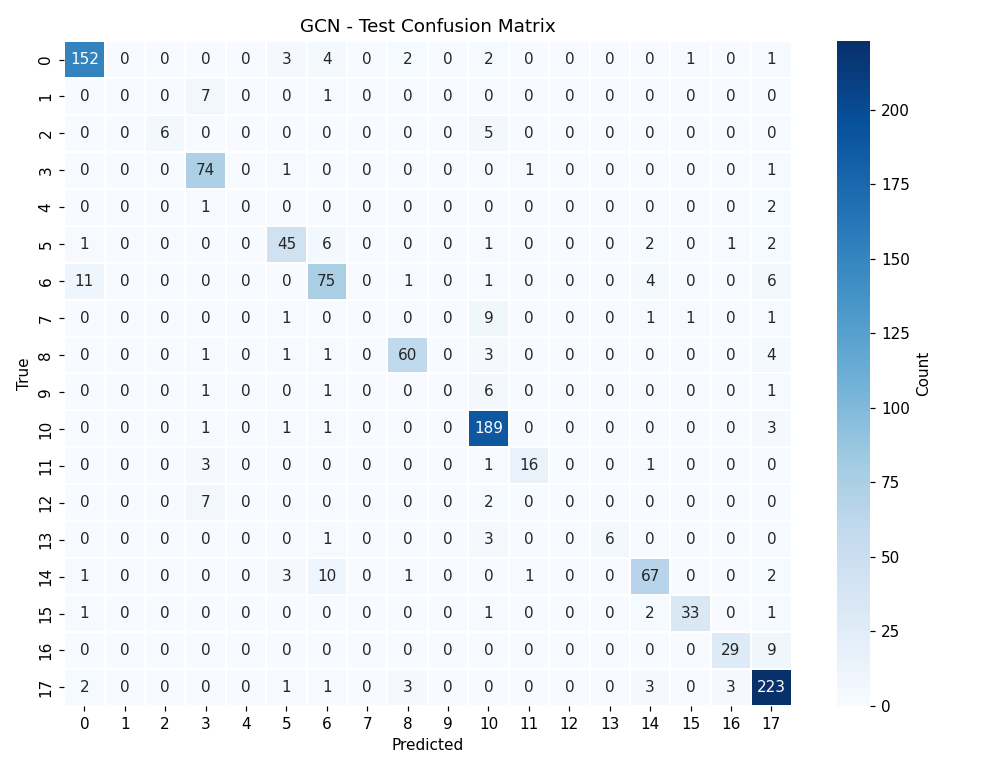
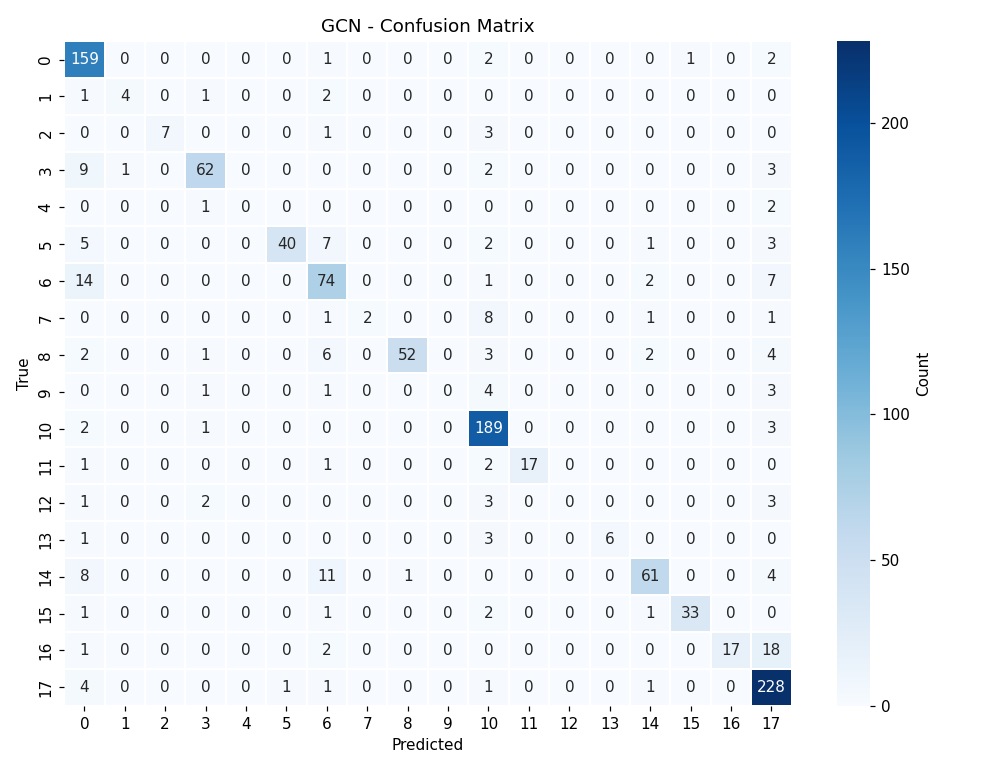
Latest

diff --git a/train_gnn.py b/train_gnn.py
@@ -1,8 +1,8 @@
 #!/usr/bin/env python3
 """
-Node classification on LastFM-Asia using GraphSAGE.
+Node classification on LastFM-Asia using GCN and GraphSAGE.
 
-Features: frequency-weighted + L2 + SVD-128
+Features: inverse-frequency-weighted + L2 + SVD-2048
 
 Usage:
     python train_gnn.py
@@ -11,7 +11,7 @@ Usage:
 import json, time
 import numpy as np
 import pandas as pd
-from scipy.sparse import csr_matrix, diags
+from scipy.sparse import csr_matrix, diags, eye
 from sklearn.model_selection import train_test_split
 from sklearn.preprocessing import normalize
 from sklearn.decomposition import TruncatedSVD
@@ -82,6 +82,11 @@ src = np.concatenate([edges["node_1"].values, edges["node_2"].values])
 dst = np.concatenate([edges["node_2"].values, edges["node_1"].values])
 A   = csr_matrix((np.ones(len(src), np.float32), (src, dst)), shape=(N, N))
 
+A_gcn  = (A + eye(N, format="csr")).astype(np.float32)
+deg    = np.asarray(A_gcn.sum(1)).flatten()
+Drt    = diags(1.0 / np.sqrt(deg), dtype=np.float32)
+A_hat  = (Drt @ A_gcn @ Drt).astype(np.float32)         # GCN symmetric norm
+
 deg2   = np.asarray(A.sum(1)).flatten(); deg2[deg2 == 0] = 1.0
 A_sage = (diags(1.0 / deg2, dtype=np.float32) @ A).astype(np.float32)  # SAGE row norm
 
@@ -139,7 +144,37 @@ class Adam:
             v_hat = self._v[name] / bc2
             param -= self.lr * m_hat / (np.sqrt(v_hat) + self.eps) + self.lr * self.wd * param
 
-# --- 7. GraphSAGE ------------------------------------------------------------
+# --- 7. GCN ------------------------------------------------------------------
+class GCN:
+    """2-layer GCN. Accepts precomputed AX = A_hat @ X (fixed)."""
+    def __init__(self, AX_pre, in_dim):
+        self.AX  = AX_pre
+        self.W1  = (rng.standard_normal((in_dim, HIDDEN)) * np.sqrt(2.0 / in_dim)).astype(np.float32)
+        self.W2  = (rng.standard_normal((HIDDEN, C))      * np.sqrt(2.0 / HIDDEN)).astype(np.float32)
+        self.opt = Adam(lr=LR, wd=WD)
+
+    def forward(self, training=False):
+        self._Z1     = self.AX @ self.W1
+        H1           = np.maximum(0.0, self._Z1)
+        H1, self._dm = dropout_fwd(H1, DROPOUT, training)
+        self._H1     = H1
+        AH1          = np.asarray(A_hat @ H1, dtype=np.float32)
+        self._AH1    = AH1
+        return softmax(AH1 @ self.W2)
+
+    def backward(self, probs):
+        n   = int(tr.sum())
+        dZ2 = np.zeros((N, C), np.float32)
+        d   = probs[tr].copy(); d[np.arange(n), labels[tr]] -= 1.0; d /= n
+        dZ2[tr] = d
+        dW2     = self._AH1.T @ dZ2
+        dH1     = np.asarray(A_hat @ (dZ2 @ self.W2.T), dtype=np.float32)
+        dH1_raw = dropout_bwd(dH1, self._dm, DROPOUT)
+        dZ1     = dH1_raw * (self._Z1 > 0).astype(np.float32)
+        dW1     = self.AX.T @ dZ1
+        self.opt.step({"W1": (self.W1, dW1), "W2": (self.W2, dW2)})
+
+# --- 8. GraphSAGE ------------------------------------------------------------
 class GraphSAGE:
     """
     2-layer GraphSAGE (mean aggregator, concat self + neighbours).
@@ -225,55 +260,67 @@ def evaluate_probs(probs, model_name, feat_name, print_report=False):
         print(classification_report(true, pred, zero_division=0))
     return pred, mf1, acc
 
-# --- 9. Run GraphSAGE --------------------------------------------------------
+# --- 10. Bootstrap helper -----------------------------------------------------
+def bootstrap(pred_arr, true_arr, n_boot=2000):
+    n = len(true_arr)
+    ba, bf = np.empty(n_boot), np.empty(n_boot)
+    for i in range(n_boot):
+        idx  = rng.integers(0, n, size=n)
+        ba[i] = (pred_arr[idx] == true_arr[idx]).mean()
+        bf[i] = f1_score(true_arr[idx], pred_arr[idx], average="macro", zero_division=0)
+    ci_a = np.percentile(ba, [2.5, 97.5])
+    ci_f = np.percentile(bf, [2.5, 97.5])
+    print(f"  Bootstrap 95% CI")
+    print(f"  Accuracy : {ba.mean():.4f}  [{ci_a[0]:.4f}, {ci_a[1]:.4f}]  (±{(ci_a[1]-ci_a[0])/2:.4f})")
+    print(f"  Macro-F1 : {bf.mean():.4f}  [{ci_f[0]:.4f}, {ci_f[1]:.4f}]  (±{(ci_f[1]-ci_f[0])/2:.4f})")
+
+# --- 11. Run GCN --------------------------------------------------------------
 print("\n" + "="*60)
-print("  GraphSAGE  (freq+L2->SVD-128)")
+print("  GCN  (freq+L2->SVD-2048)")
+print("="*60)
+
+AX_pre = np.asarray(A_hat @ X_svd, dtype=np.float32)
+gcn    = GCN(AX_pre, in_dim=SVD_DIM)
+hist_gcn = train_model(gcn, "GCN")
+probs_gcn = gcn.forward(training=False)
+pred_gcn, mf1_gcn, acc_gcn = evaluate_probs(probs_gcn, "GCN", "freq_svd2048", print_report=True)
+bootstrap(pred_gcn, labels[te])
+
+# --- 12. Run GraphSAGE --------------------------------------------------------
+print("\n" + "="*60)
+print("  GraphSAGE  (freq+L2->SVD-2048)")
 print("="*60)
 
 AX_s = np.asarray(A_sage @ X_svd, dtype=np.float32)
 AGG1 = np.hstack([X_svd, AX_s]).astype(np.float32)
 sage = GraphSAGE(AGG1, in_dim=SVD_DIM)
-hist = train_model(sage, "GraphSAGE")
-probs = sage.forward(training=False)
-pred, mf1, acc = evaluate_probs(probs, "GraphSAGE", "freq_svd128", print_report=True)
+hist_sage = train_model(sage, "GraphSAGE")
+probs_sage = sage.forward(training=False)
+pred_sage, mf1_sage, acc_sage = evaluate_probs(probs_sage, "GraphSAGE", "freq_svd2048", print_report=True)
+bootstrap(pred_sage, labels[te])
 
-# --- 10. Bootstrap confidence intervals --------------------------------------
-N_BOOT   = 2000
-true_te  = labels[te]
-n_te     = len(true_te)
-boot_acc, boot_f1 = np.empty(N_BOOT), np.empty(N_BOOT)
-for i in range(N_BOOT):
-    idx = rng.integers(0, n_te, size=n_te)
-    boot_acc[i] = (pred[idx] == true_te[idx]).mean()
-    boot_f1[i]  = f1_score(true_te[idx], pred[idx], average="macro", zero_division=0)
-
-ci_acc = np.percentile(boot_acc, [2.5, 97.5])
-ci_f1  = np.percentile(boot_f1,  [2.5, 97.5])
-print(f"\n  Bootstrap (n={N_BOOT})  95% CI")
-print(f"  Accuracy : {boot_acc.mean():.4f}  [{ci_acc[0]:.4f}, {ci_acc[1]:.4f}]"
-      f"  (±{(ci_acc[1]-ci_acc[0])/2:.4f})")
-print(f"  Macro-F1 : {boot_f1.mean():.4f}  [{ci_f1[0]:.4f}, {ci_f1[1]:.4f}]"
-      f"  (±{(ci_f1[1]-ci_f1[0])/2:.4f})")
-
-# --- 11. Plots ---------------------------------------------------------------
+# --- 13. Plots ----------------------------------------------------------------
 print("\n--- Generating plots")
 
 fig, axes = plt.subplots(1, 2, figsize=(12, 4))
-axes[0].plot(hist["loss"])
-axes[1].plot(hist["val_f1"])
+for hist, label in [(hist_gcn, "GCN"), (hist_sage, "GraphSAGE")]:
+    axes[0].plot(hist["loss"],   label=label)
+    axes[1].plot(hist["val_f1"], label=label)
 axes[0].set(title="Training loss", xlabel="Epoch", ylabel="Loss")
 axes[1].set(title="Val macro-F1",  xlabel="Epoch", ylabel="Macro-F1")
 for ax in axes:
-    ax.grid(alpha=0.3)
+    ax.legend(); ax.grid(alpha=0.3)
 plt.tight_layout()
-plt.savefig("training_graphsage.png", dpi=110); plt.close()
-print("  Saved: training_graphsage.png")
+plt.savefig("training_curves.png", dpi=110); plt.close()
+print("  Saved: training_curves.png")
 
-cm = confusion_matrix(labels[te], pred)
-fig, ax = plt.subplots(figsize=(9, 7))
-sns.heatmap(cm, annot=True, fmt="d", cmap="Blues", ax=ax,
-            linewidths=0.3, cbar_kws={"label": "Count"})
-ax.set(xlabel="Predicted", ylabel="True", title="GraphSAGE [freq_svd128] - Confusion Matrix")
-plt.tight_layout()
-plt.savefig("confusion_graphsage.png", dpi=110); plt.close()
-print("  Saved: confusion_graphsage.png")
+for pred_arr, name in [(pred_gcn, "gcn"), (pred_sage, "graphsage")]:
+    cm = confusion_matrix(labels[te], pred_arr)
+    fig, ax = plt.subplots(figsize=(9, 7))
+    sns.heatmap(cm, annot=True, fmt="d", cmap="Blues", ax=ax,
+                linewidths=0.3, cbar_kws={"label": "Count"})
+    ax.set(xlabel="Predicted", ylabel="True",
+           title=f"{name.upper()} - Confusion Matrix")
+    plt.tight_layout()
+    plt.savefig(f"confusion_{name}.png", dpi=110); plt.close()
+    print(f"  Saved: confusion_{name}.png")
